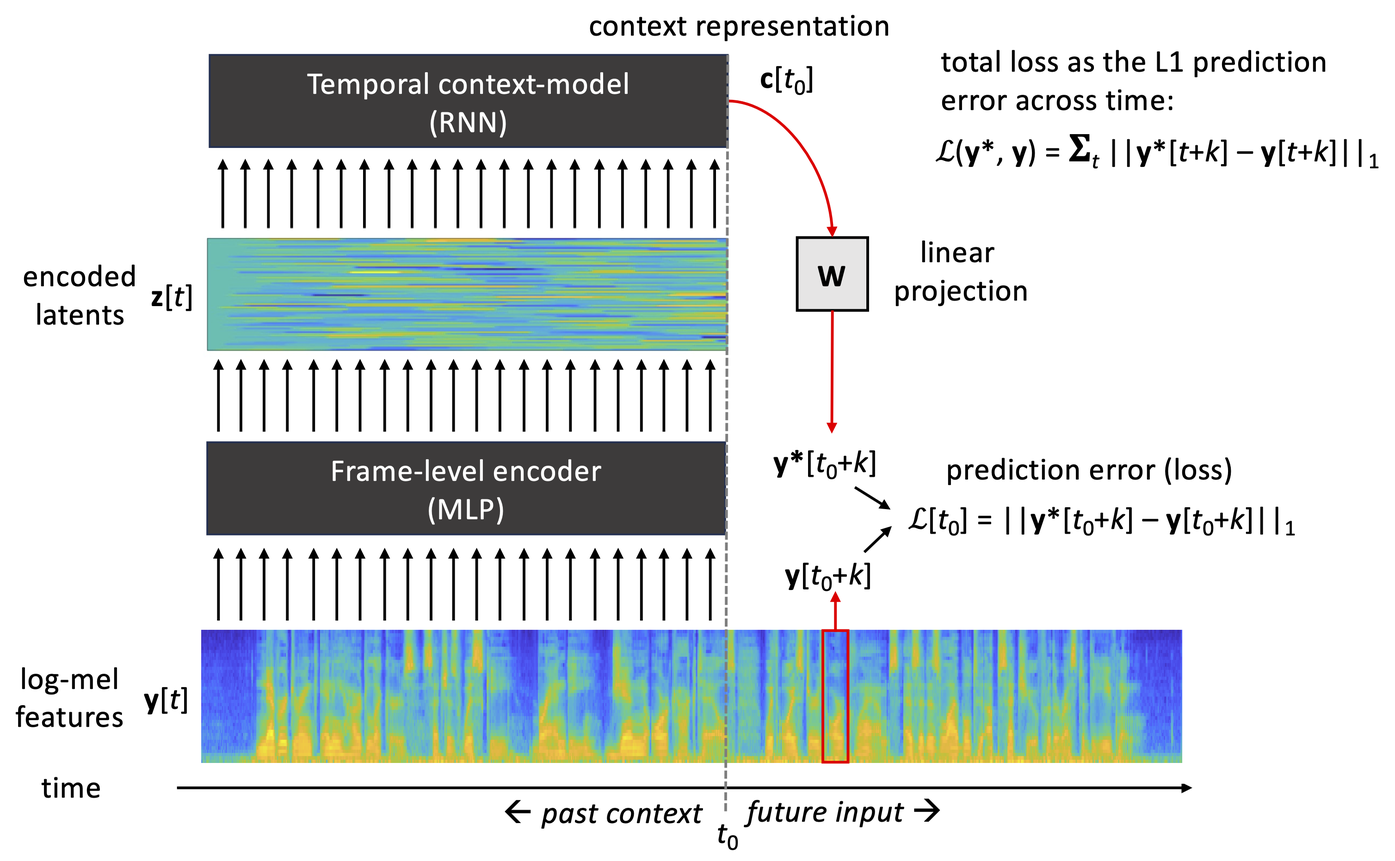
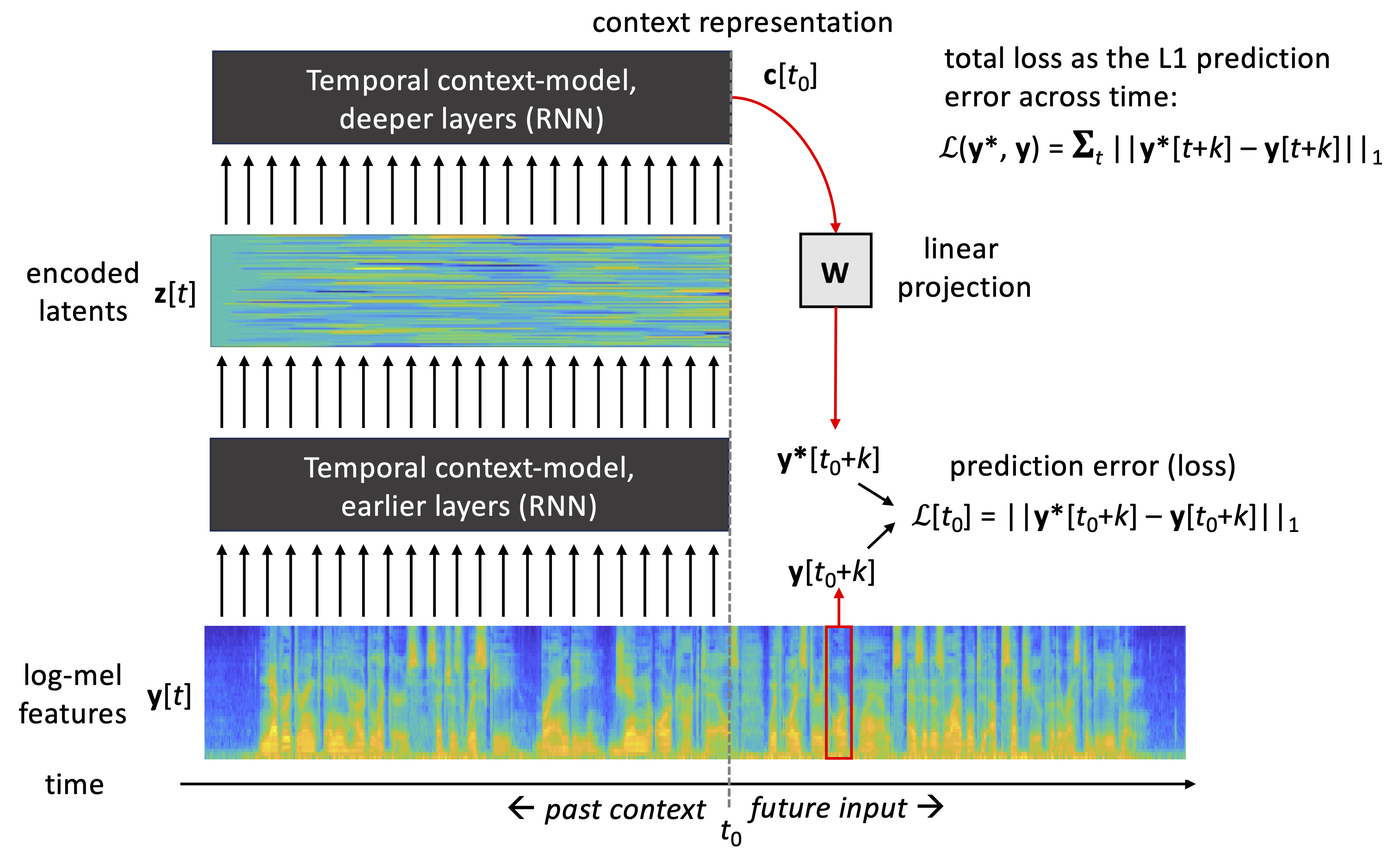
update SSL

diff --git a/Self_supervised_learning.md b/Self_supervised_learning.md
@@ -4,27 +4,27 @@ Self-supervised learning (SSL) refers to a family of artificial neural network m
 
 In general, SSL algorithms belong to the family of unsupervised learning algorithms and they are practically implemented as deep neural networks. The reason they are referred to as *self-supervised* comes from the optimization criterion used to train the models. Classical unsupervised learning operates by performing unsupervised data clustering using a heuristic algorithm (as in k-means) or by modeling the data distribution directly with a generative model (as in Gaussian mixture models, hidden-Markov models, or autoencoders). SSL algorithms, on the other hand, can be viewed as regression models (or classifiers) that try to perform regression mapping from the input data to model's own internal representations derived from the same input data. 
 
-In case of speech data, one example of a self-supervised regression task is to predict the input speech signal over time. When a deep neural network is tasked with this prediction problem and optimized to solve it, the network has to learn higher-level properties of the data in order to solve the problem adequately. Note that the task has to be difficult enough, so that it cannot be solved by trivial means (e.g., linear interpolation from the observed values). Fig. 1 illustrates a self-supervised speech prediction task, as it is implemented in Autoregressive Predictive Coding (APC) algorithm (Chung et al., 2019). In the APC model, the task of the model is to predict spectral envelope features (e.g., log-Mel spectra or MFCCs) approximately 50 ms in the future, given access to the current and past observations of the input spectrum.   
+In case of speech data, one example of a self-supervised regression task is to predict the input speech signal over time. When a deep neural network is tasked with this prediction problem and optimized to solve it, the network has to learn higher-level properties of the data in order to solve the problem adequately. Note that the task has to be difficult enough, so that it cannot be solved by trivial means (e.g., linear interpolation from the observed values). Fig. 1 illustrates a self-supervised speech prediction task, as it is implemented in Autoregressive Predictive Coding (APC) algorithm (Chung et al., 2019). In the APC model, the task of the model is to predict spectral envelope features (e.g., log-Mel spectra or MFCCs) approximately 50 ms in the future, given access to the current and past observations of the input features.   
 
 
 <img src="attachments/SSL/APC_schematic.png" alt="APC basic schematic" width="650"/>
 
-**Figure 1:** A schematic view of APC model for self-supervised learning. Speech signal is first represented by log-Mel spectral envelope features **y**(t). APC encoder, usually implemented as a multilayer perceptron (MLP), processes each spectral frame one-by-one and transforms them into latent representations **z**(t). The history of **z**(t) values up to present time, $t \in [... ,t_0-2, t_0-1, t_0]$, is processed by a context model (e.g., a RNN, Transformer or CNN), producing a context embedding **c**($t_0$). The context embedding is then projected linearly to produce a prediction  **y***(${t_0}+k$) of a future log-Mel frame **y**(${t_0}+k$) at the given prediction distance *k*. Mean absolute error between the predicted and true future frame is then used as the loss function and minimized during neural network training. After the training, latent vectors **z**(t) or context vectors **c**(t) can be used as inputs to a downstream task.
+**Figure 1:** A schematic view of APC model for self-supervised learning. Speech signal is represented by spectral envelope features **y**(t), such as log-mel spectra. The APC model consists of a set of recurrent neural network layers that process the history of **y**[t] values up to present time, $t \in [... ,t_0-2, t_0-1, t_0]$, producing a context representation **c**($t_0$). The context vector is then projected linearly to produce a prediction  **y***[${t_0}+k$] of a future spectral frame **y**[${t_0}+k$] at the given prediction distance *k*. The mean absolute error between the predicted and true future frame is then used as the loss function and minimized during neural network training. After the training, latent vectors **z**(t) or context representation vectors **c**(t) can be used as inputs to a downstream task.
 
 
 The advantage of SSL methods is that they do not require labeled data to operate, which allows their training on much larger datasets than what is typically available for a speech processing task. For instance, consider the case of deploying an automatic speech recognition (ASR) system for a new language or dialect: There may only be a few hours of representative speech data with phonemic or text transcriptions to train the system. However, there may be substantially more unlabeled speech data available in the same or similar languages. By first learning the general acoustic and statistical characteristics of speech with SSL, one can then fine-tune the system to connect the learned representations with symbolic linguistic representations of the language. This potentially results in a much more accurate ASR model than what could be achieved by applying normal supervised learning to the small labeled data directly. 
 
-In practice, SSL-based pre-training has turned out to be so powerful that a large proportion of modern speech technology systems make use of it as an integral part of the system development (ref).
+In practice, SSL-based pre-training has turned out to be so powerful that a large proportion of modern speech technology systems make use of it as an integral part of the system development.
 
-## Two basic types of SSL models for speech
+## Basic archetypes of speech SSL models
 
-State-of-the-art SSL models for speech data can be categorized into two basic approaches: prediction and masking based models. 
+SSL models for speech data can be categorized into two basic approaches: prediction and masking based models. 
 
 ### Prediction-based SSL
 
-In the prediction based models, the task of the model is to predict future evolution of the speech signal, given access to a series of past observations. This makes the models causal, as they do not access future speech observations in the generation of their latent representations.
+In the prediction-based models, the task of the neural network is to predict future evolution of the speech signal, given access to a series of past observations. This makes the models causal, as they do not access future speech observations during generation of their latent representations.
 
-In **APC** (Fig. 1), the inputs and prediction targets of the neural network consist of log-Mel features, and the prediction distance *k* (in frames) is a hyperparameter defined by the user.  The model itself consists of an MLP-encoder to convert the log-Mel features **y** into latent representations **z**, and a temporal context model that is responsible for accumulating the history of ... **z**[*t*-2], **z**[*t*-1], **z**[*t*] into a context vector **c**[*t*]. At every time-step, the context vector is then mapped into a prediction **y***[*t*+*k*] of a future log-Mel frame at *t*+*k* using a learnable linear projection **y***[*t*+*k*]=**c**[*t*]<sup>T</sup>**W**.
+In **APC** (Fig. 1), the inputs and prediction targets of the neural network consist of spectral feautres (e.g. log-mel features), and the prediction distance *k* (in frames) is a hyperparameter defined by the user. The model itself consists of a stack of recurrent neural layers that are responsible for accumulating the history of observations... **y**[*t*-2], **y**[*t*-1], **y**[*t*] into a context vector **c**[*t*]. At every time step, the context vector is then mapped into a prediction **y***[*t*+*k*] of a future feature frame at *t*+*k* using a learnable linear projection **y***[*t*+*k*]=**c**[*t*]<sup>T</sup>**W**.
 
 The model is trained by minimizing the mean absolute error (MAE; aka. L1 loss) between the predicted and actual inputs across all data $t \in [1, 2, ..., T]$:
 
@@ -33,30 +33,40 @@ The model is trained by minimizing the mean absolute error (MAE; aka. L1 loss) b
 $$L = \sum_{t=1}^T ||\textup{\textbf{y}}^{*}[t+k]-\textup{\textbf{y}}[t+k]||_{1}$$
 
 
+After the training, the context vectors **c**[*t*], or latent representations **z**[*t*] corresponding to activations of a chosen hidden RNN layer, can be used as features for a downstream task.  
 
-In the original APC, the encoder was implemented as a 3-layer MLP and the context model was implemented as a stack of LSTM layers (1--4 depending on the configuration) (Chung et al, 2019). The prediction distance *k* was varied from 1 to 20 steps (10-200 ms), with approx. 5 steps (50 ms) being commonly used in later use cases (REFS).
+In the original APC paper, the context model was implemented as a stack of recurrent LSTM layers (1&ndash;4 layers depending on the configuration) and the prediction distance *k* was varied from 1 to 20 steps (10&ndash;200 ms) (Chung et al, 2019). In later works, a prediction distance of approx. 3&ndash;5 steps (30&ndash;50 ms) has been commonly adopted in many later use cases.
 
 
 
  
-**Contrastive Predictive Coding** (CPC; van den Oord et al., 2018) is conceptually similar to APC in terms of predicting future speech using an encoder and a context model. However, instead of predicting spectral envelope of the speech at a single target distance *k*, CPC learns to predict its own latent vectors **z**(*t*+*k*) for all $k \in {1, 2, ..., K}$ and using a separate linear projection **W**$_k$ for each of the prediction distances. This means that CPC learns the predictor and the representations to predict simultaneously during training. When the model is allowed to invent its own prediction targets, conventional distance-based losses (e.g., L1 or L2 loss) cannot be used for model optimization due to the risk of *representation collapse*. During the collapse, the model learns a trivial solution for the problem, such as encoding all speech frames and their predictions with the same constant values. This minimizes the loss very efficiently, but the resulting representations do not carry any information of the underlying signal. In CPC, representation collapse is avoided by using a so-called *contrastive loss*: instead of minimizing the distance of predicted and true future **z**($t+k$) vectors, the model should learn to distinguish *true future* observations (aka. "positive samples") from other, usually random, observations **z**(*t*) produced by the same encoder ("negative samples"). Technically, this is implemented using a so-called InfoNCE loss:
+**Contrastive Predictive Coding** (CPC; van den Oord et al., 2018), illustrated in Fig. 2, is conceptually similar to APC in terms of predicting future speech using an encoder and a context model. However, instead of predicting spectral envelope of the speech at a single target distance *k*, CPC learns to predict its own latent vectors **z**[*t*+*k*] for all $k \in {1, 2, ..., K}$ and using a separate linear projection **W**$_k$ for each of the prediction distances. This means that CPC simultaneously learns the predictor and the representations to predict during training. 
+
+<img src="attachments/SSL/CPC_schematic_waveform.png" alt="CPC basic schematic" width="700"/>
+
+**Figure 2:** Illustration of the CPC algorithm (van den Oord et al., 2018). An encoder maps the input speech waveform into latent representations **z**[*t*]. An RNN-based context-model, followed by distance-specific linear mappings **W**$_k$, is then used to predict future **z**[*t*+1], **z**[*t*+2], ..., **z**[*t*+*K*] for each *t* in the input. At training time, a contrastive InfoNCE loss is used to optimize the predictions such that the model learns to differentiate true future latents from false futures (negative samples) drawn from the pool of latents corresponding to other time points in the input data.
+
+When a model is allowed to invent its own prediction targets, conventional distance-based losses (e.g., L1 or L2 loss) cannot be used for model optimization due to the risk of *representation collapse*. During the collapse, the model learns a trivial solution for the problem, such as encoding all speech frames and their predictions with the same constant values. Although this minimizes the loss very efficiently, the resulting representations do not carry any information of the underlying signal. In CPC, representation collapse is avoided by using a so-called *contrastive loss* (Gutmann & Hyvärinen, 2010): instead of minimizing the distance of predicted and true future **z**[$t+k$] vectors, the model is optimized to distinguish *true future* observations (aka. "positive samples") from other, usually random, observations **z**$_n$[*t*] produced by the same encoder ("negative samples"). Technically, this is implemented using a so-called InfoNCE loss:
 
 
 <img src="attachments/SSL/CPC_equation.png" alt="CPC equation" width="700" class="center"/>
 
-[sample selection etc].
+By jointly optimizing the representations and their predictions, CPC learns latent representations **z**[*t*] and context representations **c**[*t*] that encode different aspects of the input speech, such as phonemic units and speaker identities, a in well-separable manner (van den Oord et al., 2018). 
 
-<img src="attachments/SSL/CPC_schematic_waveform.png" alt="CPC basic schematic" width="700"/>
+Note that the standard CPC uses waveforms instead of spectral features as the input, and therefore a CNN encoder is applied to map the speech into the latent space **z**[*t*] (see Fig. 2). However, the core CPC learning mechanism can also be appied to spectral feature inputs, in which case MLP encoder would be typically instead of a CNN (e.g., Chung et al., 2019; see also *"Choosing between waveform and acoustic feature inputs"* section below). 
 
-**Figure 2:** [ADD CPC CAPTION]
+
+
+**On the context models of prediction-based algorithms**
+
+Both APC and CPC originally use RNN-based context models (LSTMs for APC, GRUs for CPC). However, other architectures capable of temporal modeling may as well be used. These include Transformers (see, e.g., Chung & Glass, 2019, for Transformer-based APC) or WaveNet-like CNN layers that make use of dilated convolutions to efficiently capture long temporal contexts (van den Oord et al., 2016). 
  
 
 ### Masking-based SSL
  
-In contrast to temporal prediction SSL models, masking based models attempt to predict parts of input data that are masked (hidden) from the network. In image domain, this would correspond to a learning problem where parts of an image are hidden from the network, and the network has to infer the contents of the hidden area using the surrounding visible parts of the image. In case of speech, the model typically observes several seconds of speech (e.g., an utterance), and then several temporal spans rangin from tens to hundreds of milliseconds in duration are hidden from the model. Similar to CPC (see above), the model's task is then to infer what kind of latent representations the model itself would generate from the masked regions, and doing this by using comparable latent reprensetations derived from the visible parts of the signal.
+In contrast to temporal prediction SSL models, masking based models attempt to predict parts of input data that are masked (hidden) from the network. In image domain, this would correspond to a learning problem where parts of an image are hidden from the network, and the network has to infer the contents of the hidden area (or encoded latents of it) using the surrounding visible parts of the image. In case of speech, the model typically observes several seconds of speech (e.g., an utterance), and then several temporal spans ranging from tens to hundreds of milliseconds in duration are masked from the model. Similarly to the CPC (see above), the model's task is then to infer what kind of latent representations the model's own encoder would generate for the masked inputs, as done by using the latent reprensetations derived from the unmasked parts of the signal. 
 
-
-One example of a masking based SSL is the wav2vec2.0 architecture, which is illustrated in Fig. 3,   
+One example of a masking based SSL is the wav2vec2.0 model (Baevski et al., 2020) illustrated in Fig. 3. In wav2vec2.0, a CNN is first used to encode speech waveform into latent **z**[*t*] similarly to CPC. However, instead of predicting in time, a subset of **z**[*t*] are masked from the subsequent Transformer layers, and the task of the final Transformer layer is to output correct predictions **c**[*t*] for the masked segments by using the surrounding context as a cue. Instead of predicting the original **z**[*t*] directly, the masked **z**[*t*] are first vector quantized (VQ) into **q**[*t*] with a learnable codebook, making the prediction targets categorical in nature. Contrastive loss is then used to optimize the network for the prediction task. An additional auxiliary loss called *diversity loss* is added to the total optimization loss with a weight of $\alpha$ to ensure that the VQ process results in a hetereogenous distribution of quantization outputs. 
 
 
 <img src="attachments/SSL/wav2vec2_schematic.png" alt="Wav2vec2.0 basic schematic" width="700"/>
@@ -64,56 +74,55 @@ One example of a masking based SSL is the wav2vec2.0 architecture, which is illu
 **Figure 3:** An illustration of wav2vec2.0 algorithm by Baevski et al. (2020). A CNN encoder produces latent short-term representations from an input waveform, one latent vector per 10 ms. A subset of these latents is then masked, and the unmasked latents are passed to a Transformer-based context model. In parallel the masked latents are vector quantized (VQ) in a separate processing branch using a learnable codebook. During training time, the model is optimized such that the Transformer correctly predicts the VQ latents of the masked input sections. A separate diversity loss is applied to the VQ to ensure that the quantization results in rich use of the quantization codebook.   
 
 
-
-Other popular masking based models include, e.g., HuBERT (ref) and data2vec (ref) algorithms.
-
-## Choosing between waveform and acoustic feature inputs
-
-In the above examples, input to the model is in the form of log-Mel filterbank features, which means that phase information of the signal has been discarded. Also, the less filterbank channels are used, the more the spectral envelope is averaged, which results in some loss of spectral detail, especially at high frequencies.
-
-In theory, use of the original (digitized) acoustic waveform would provide a more general starting point for representation learning. This is since there is no manually introduced loss of signal information before the SSL stage, which may provide additional performance benefits in tasks where the filterbank representation is not optimal. In fact, many of the SSL algorithms have been originally proposed as models that operate directly on the input waveform, typically sampled at 16 kHz. 
-
-In practice, many of the widely used SSL algorithms, such as CPC, Wav2Vec2.0, or HuBERT can use waveform or filterbank features interchangeably. The main difference is the two input types require a different type of encoder (see also Figs. 1–3): 
-
-*A multilayer perceptron (MLP)* can be used for filterbank features, if the features are extracted at a typical frame rate (e.g., one frame every 10 ms). In this case, the goal of the encoder is to perform a non-linear transformation on each of the frames representing spectral envelope of the input to a latent space. In the MLP, processing of each filterbank frame is done independently of the neighboring frames, meaning that the frame rate of the encoder output is the same as in the input. Since the MLP is optimized as a part of the entire SSL model training, it learns to represent filterbank information in a manner that supports the self-supervised learning task. As a concrete example, APC reference implementation uses 3 feed-forward layers with ReLu activations as the encoder for 80-dimensional log-Mel spectrograms (Chung et al., 2019).
-
-*A convolutional neural network (CNN)* is commonly employed as the encoder when waveforms are used as inputs. In this case, the encoder serves two purposes: 1) conversion of the input signal into a form that is useful for the SSL task (as in the filterbank case), and 2) downsampling of the signal from the original waveform sampling rate (e.g., 16 kHz) to a frame-rate compatible with the rest of the architecture and the downstream tasks, such as one frame every 10 ms (the same as in the filterbank case). In other words, CNN can be seen as a learnable non-linear filterbank that replaces FFT magnitude spectrum calculation, filterbank design, and non-linear learnable MLP of the alternative approach. Technically speaking, a typical CNN encoder could consist of 5 CNN layers, where strided convolutions are employed for efficient processing of the time-domain signal, and where the receptive field size of the CNN corresponds to a similar 20--35 ms time-scale as in standard filterbank feature calculation (e.g., van den Oord et al., 2018).
-
-Fig. 4 illustrates the basic structure of MLP (left) and CNN (right) encoders applied to the same input data.     
-
-<img src="attachments/SSL/SSL_waveform_vs_features.png" alt="Waveform_vs_features_comparison" width="850"/>
-
-**Figure 4:** An illustration of CPC algorithm with two types of inputs: spectral features (left) and acoustic waveforms (right). Note the use of CNN encoder for waveforms and MLP for spectral feature frames. The core learning principles of CPC are the same in both cases, but the model naturally cannot recover information lost during the feature extraction process (such as phase information in case of log-Mel features).   
-
-
-
-
-
-**Advantages of waveform inputs**
-
-- All information in the signal is available to the SSL process, including signal phase and high-frequency details.
-
-
-**Advantages of filterbank features**
-
-- Discards signal phase, which is not traditionally considered as important for many speech tasks and that tends to vary across recording setups and channels.
-- Lower-dimensional input enables simpler models and faster learning, and from potentially smaller data, as the model does not have to learn to interpret time-domain signals. 
-
- 
-
-
-
-In general, the input signal features and prediction targets of SSL algorithms can be defined in various ways, depending on the algorithm and aims of the self-supervised learning. For instance, temporal prediction of prosodic parameters can be used to enforce the model to learn prosodic representations for the training language (REF JURAJ et al.).
-
+Other popular masking based models include, e.g., HuBERT (Hsu et al., 2021) and data2vec (Baevski et al., 2022) algorithms. Without going into details, HuBERT learns by predicting its own Transformer layer outputs **z**[*t*] for masked sections of speech input, where the outputs are extracted from the previous training epoch of the model. During the first epoch, the targets consist of outputs of a some kind of acoustic unit discovery system, such as vector quantized spectral features. In contrast, Data2vec is a teacher-student architecture where the student network, a stack of Transformer layers, tries to predict hidden layer activations of masked input segments encoded by the teacher network. The teacher network has identical Transformer architecture to the learner, but the teacher network's parameters are a moving average of student network parameters across several previous training epochs.   
 
 
 ## Combining SSL with downstream tasks
 
 Once an SSL model is trained in a self-supervised manner without data labels, there are two basic ways to use the model: 1) using the model as a fixed feature extractor to provide speech features for a downstream task, or 2) using the model as a part of an end-to-end downstream task system. 
 
-In the first case, the pre-trained SSL model can simply be used as a feature extraction tool. Speech data is given as an input to the model, and then the corresponding hidden layer activations resulting from the forward pass of the model are extracted as the output features. For instance, in APC and CPC models it is common to extract encoder outputs **z**[*t*] or context vectors  **c**[*t*] as short-term features for the signal at each time-step *t*. However, activations of any hidden layer of an SSL model can be used, and the performance of the resulting features depends on the task and SSL model at hand. Usage of SSL models as frozen feature extractors is also commonly used in benchmarks used to compare performance of different SSL algorithms (SUPERB REF).
+In the first case, the pre-trained SSL model can simply be used as a feature extraction tool. Speech data is given as an input to the model, and then the corresponding hidden layer activations resulting from the forward pass of the model are extracted as the output features. For instance, in APC and CPC models it is common to extract encoder outputs **z**[*t*] or context vectors  **c**[*t*] as short-term features for the signal at each time step *t*. However, activations of any hidden layer of an SSL model can be used, and the performance of the resulting features depends on the task and SSL model at hand. Usage of SSL models as frozen feature extractors is also commonly used in benchmarks used to compare performance of different SSL algorithms (e.g., Yang et al., 2021).
 
-In the alternative use of SSL models, the pre-trained layers and weights of an SSL model are included as a part of a downstream task model. Depending on the model and task, it is sometimes possible to directly fine-tune the SSL model to the task by simply adding an appropriate task-specific classification or regression layer after a chosen hidden layer (see the previous paragraph) and then fine-tuning some or all layers of the model using a loss function appropriate for the task. Alternatively, several new trainable layers are connected to the SSL model layers, and some or all of the layers of the resulting combined model are then trained for the task. The advantage of this approach is that the SSL model, including its acoustic encoder, can benefit from the further training that optimizes the entire pipeline for the task at hand. The downside is that fine-tuning the entire model using a dataset of limited size can result in overfitting or catastrophic forgetting in the model. This is especially the case when there is a large number of parameters in the combined pipeline. Different targeted strategies can be applied to mitigate such problems, which are beyond the scope of the present text. 
+In the alternative use of SSL models, the pre-trained layers and weights of an SSL model are used as an encoder for a larger downstream task neural architecture. For straightforward classification and regression tasks, it is possible to directly fine-tune the SSL model to the task by simply adding an appropriate task-specific classification or regression layer after the SSL layers, and then fine-tuning some or all layers of the model using a loss function appropriate for the task. Alternatively, several new trainable layers can be appended to the SSL model before fine-tuning. The advantage of this approach is that the SSL model, including its CNN-based waveform encoder (if applicable), can benefit from the further training that optimizes the entire processing pipeline for the task at hand. The downside is that fine-tuning the entire model using a dataset of limited size can result in overfitting or catastrophic forgetting in the model. This is especially the case when there is a large number of parameters in the model. Different strategies can be utilized to mitigate such problems, such as updating only some of the deepest layers of the SSL model during the fine-tuning, reducing the learning rate of the SSL layers compared to classification layers, first training the new classification layers and then gradually proceeding to update also the earlier layers, or using special techniques such as low-rank adaptation (LoRA) that alters the behavior of the original SSL layers without directly updating their parameters (Hu et al., 2021).  
+
+## Choosing between waveform and acoustic feature inputs
+
+In the above examples, input to the APC model consisted of spectral features, such as log-mel filterbank features, which means that phase information of the signal has been discarded. Also, the less filterbank channels are used, the more the spectral envelope is averaged, which results in some loss of spectral detail, especially at high frequencies. 
+
+In contrast, CPC and wav2vec2.0 used acoustic waveforms as their default inputs. In theory, the use of the acoustic waveform provides a more general starting point for representation learning, since there is no loss of information before the SSL stage. This may provide some performance advantage over spectral features in tasks where the chosen filterbank representation is not optimal, and where there is enough data to train the waveform encoder. 
+
+
+<img src="attachments/SSL/SSL_waveform_vs_features.png" alt="Waveform_vs_features_comparison" width="850"/>
+
+**Figure 4:** An illustration of CPC algorithm with two types of inputs: spectral features (left) and acoustic waveforms (right). Note the use of CNN encoder for waveforms and MLP for spectral feature frames. The core learning principles of CPC are the same in both cases, but the model naturally cannot recover information lost during the feature extraction process (such as phase information in case of log-Mel features).   
+
+
+In practice, nearly all of the popular SSL algorithms, such as CPC, Wav2Vec2.0, or HuBERT can use waveform or filterbank features interchangeably. The main difference is the two input types require a different type of encoder (Fig. 4): 
+
+
+*A multilayer perceptron (MLP)* can be used for spectral features, if the features are extracted at a typical frame rate (e.g., one frame every 10 ms). In this case, the goal of the encoder is to perform a (potentially complex) non-linear transformation on each of the spectral frames, mapping them to a latent representation space. In the MLP, processing of each filterbank frame is done independently of the neighboring frames, meaning that the frame rate of the encoder output is the same as in the input. Since the MLP is optimized as a part of the entire SSL model training, it learns to represent filterbank information in a manner that supports the self-supervised learning task. 
+
+*A convolutional neural network (CNN)* is commonly employed as the encoder when waveforms are used as inputs. In this case, the encoder serves two purposes: 1) conversion of the input signal into a form that is useful for the SSL task (as in the spectral feature case), and 2) downsampling of the signal from the original waveform sampling rate (e.g., 16 kHz) to a frame-rate compatible with the rest of the architecture and the downstream tasks, such as one frame every 10 ms. In other words, CNN can be seen as a learnable non-linear feature extractor that replaces the short-term windowing, FFT magnitude spectrum calculation, filterbank filtering, logarithmic compression, and the non-linear mapping of an MLP with a single neural module. Technically speaking, a typical CNN encoder consists of 3&ndash;5 CNN layers, where strided convolutions are employed for efficient processing of the time-domain signal, and where the effective receptive field size of the CNN corresponds to a similar 20--35 ms time-scale as in standard spectral feature calculation (e.g., van den Oord et al., 2018).
+
+
+
+
+
+
+**Advantages of waveform input**
+
+- All information in the signal is available to the SSL process, including signal phase and high-frequency details, allowing the neural model to determine what is useful in the signal for the task at hand.
+- Maximizes performance potential of the downstream tasks, especially when further fine-tuning of the encoder can be done for the tasks. 
+
+
+**Advantages of spectral features**
+
+- Standard features (log-mels, MFCCs) represent main spectral properties of the signal while discarding signal phase. Since phase information is not classically considered as important for most of the speech tasks, and since phase tends to vary across signal channels, the use of standard features makes the resulting SSL representations more robust against varying channel conditions (e.g., different dataset or microphone).
+- Low-dimensional and well-tested speech features enable simpler models and faster learning compared to CNN having to learn to interpret time-domain samples, making them potentially more suitable for smaller data. 
+
+ 
+
+
 
 ## Benchmarking SSL models
 
@@ -124,15 +133,27 @@ Given the fast pace of the development of SSL methods, it may be difficult to id
 
 ## References
 
-Chung, Y.-A., Hsu, W.-N., Tang, H., Glass, J. (2019) An Unsupervised Autoregressive Model for Speech Representation Learning. Proc. Interspeech 2019, 146-150, doi: 10.21437/Interspeech.2019-1473
+Baevski, A., Zhou, H., Mohamed, A., & Auli, M. (2020). wav2vec 2.0: A framework for self-supervised learning of speech representations. *Proc. 34th Conference on Neural Information Processing Systems (NeurIPS 2020)*, Vancouver, Canada.
 
-Yang, S.-w., Chi, P.-H., Chuang, Y.-S., Lai, C.-I.J., Lakhotia, K., Lin, Y.Y., Liu, A.T., Shi, J., Chang, X., Lin, G.-T., Huang, T.-H., Tseng, W.-C., Lee, K.-t., Liu, D.-R., Huang, Z., Dong, S., Li, S.-W., Watanabe, S., Mohamed, A., Lee, H.-y. (2021). SUPERB: Speech Processing Universal PERformance Benchmark. Proc. Interspeech 2021, 1194-1198, doi: 10.21437/Interspeech.2021-1775
+Baevski, A., Hsu, W.-N., Xu, Q., Babu, A., Gu, J., & Auli, M. (2022). Data2vec: A General Framework for Self-supervised Learning in Speech, Vision and Language. *arXiv:2202.03555*
 
-APC
-Wav2Vec2.0
-HuBERT
-CPC
-Data2Vec2.0
+Chung, Y.-A. & Glass, J. (2019). Generative Pre-Training for Speech with Autoregressive Predictive Coding. *Proc. IEEE International Conference on Acoustics, Speech and Signal Processing (ICASSP-2019)*, Brighton, UK, pp. 3497&ndash;3501.
+
+Chung, Y.-A., Hsu, W.-N., Tang, H., & Glass, J. (2019). An Unsupervised Autoregressive Model for Speech Representation Learning. *Proc. Interspeech-2019*, Graz, Austria, pp. 146&ndash;150.
+
+Gutmann, M. & Hyvärinen, A. (2010). Noise-contrastive estimation: A new estimation principle for unnormalized statistical models. *Proc. Thirteenth International Conference on Artificial Intelligence and Statistics*, pp. 297&ndash;304, 2010.
+
+Hsu, W-N., Bolte, B., Tsai, Y-H., Lakhotia, K., & Salakhutdinov, R. (2021). HuBERT: Self-supervised speech representation learning by masked prediction of hidden units. *IEEE/ACM Transactions on Audio, Speech and Language Processing*, 29, pp. 3451&ndash;3460
+
+Hu, E., Shen, Y., Wallis, P., Allen-Zhu, Z., Li, Y., Wang, S., Wang, K., & Chen, W. (2021). LoRA: Low-Rank Adaptation of Large Language Models. *Proc. ICLR-2022*, a virtual conference.
+
+van den Oord, A., Dieleman, S., Zen, H., Simonyan, K., Vinyals, O., Graves, A., Kalchbrenner, N., Senior, A., & Kavukcuoglu, K. (2016). WaveNet: A Generative Model for Raw Audio. *arXiv:1609.03499*  
+
+van den Oord, A., Li, Y., & Vinyals, O. (2018). Representation learning with contrastive predictive coding. *CoRR, abs/1807.03748*. 
+
+Yang, S.-w., Chi, P.-H., Chuang, Y.-S., Lai, C.-I.J., Lakhotia, K., Lin, Y.Y., Liu, A.T., Shi, J., Chang, X., Lin, G.-T., Huang, T.-H., Tseng, W.-C., Lee, K.-t., Liu, D.-R., Huang, Z., Dong, S., Li, S.-W., Watanabe, S., Mohamed, A., Lee, H.-y. (2021). SUPERB: Speech Processing Universal PERformance Benchmark. *Proc. Interspeech-2021*, pp. 1194&ndash;1198.
+
+
 
 
 
